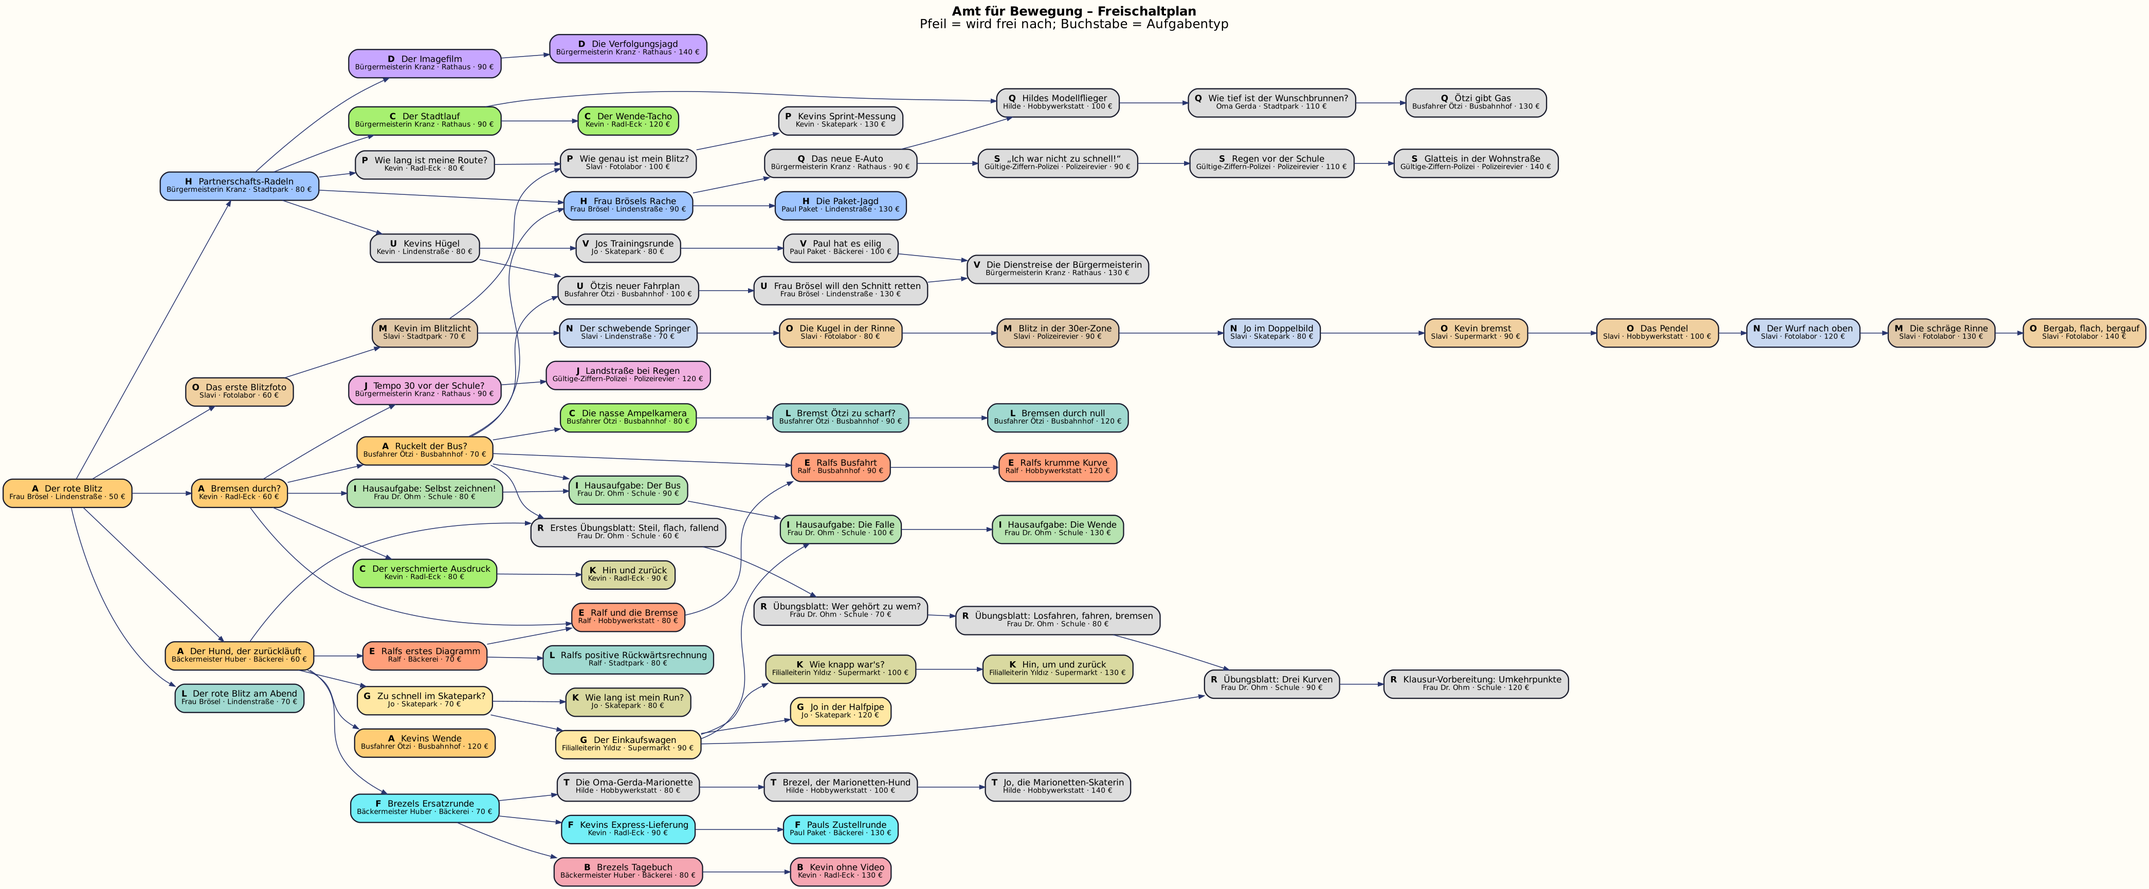
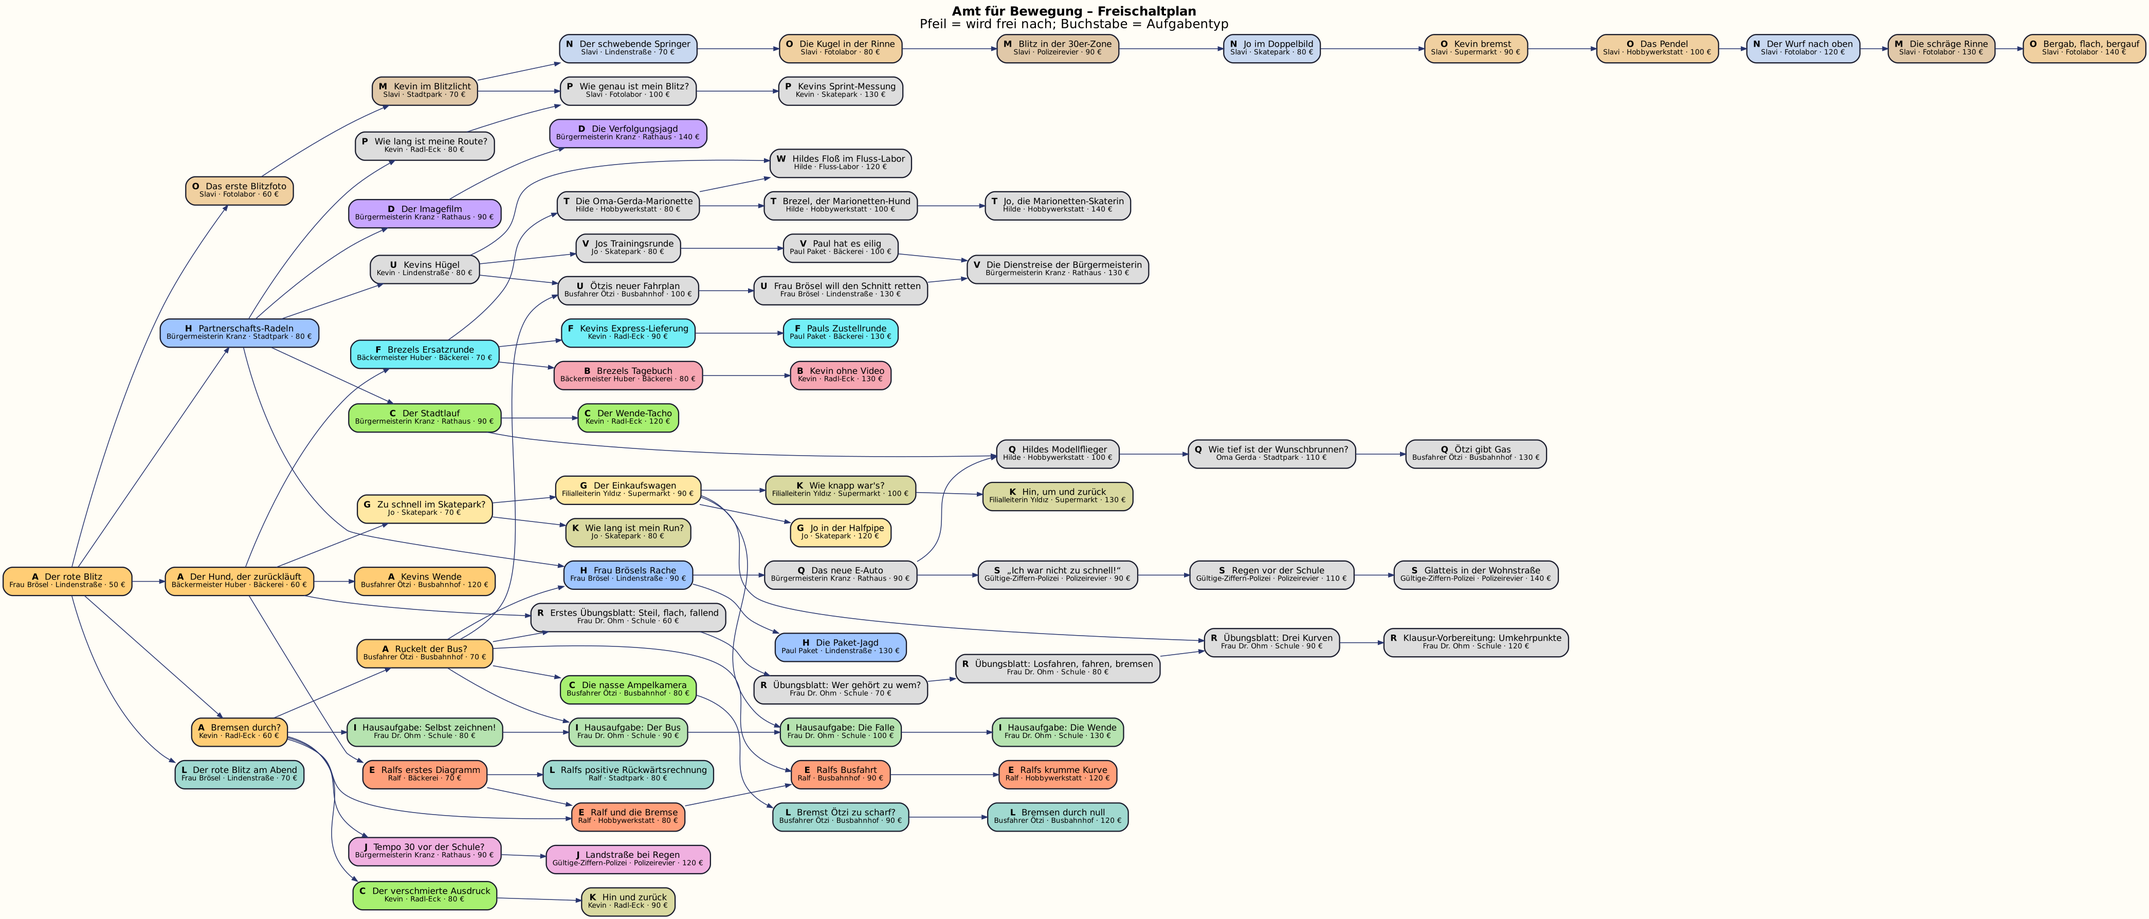
W34 Teil 3: Neuer Aufgabentyp W Fluss-Labor (Regler Strömung/Boot, Zeitraffer, t₁/t₂/t_ges, Seil bei zu schwachem Boot, Fahrtenbuch, Erkenntnis „gleicht sich nicht aus“, Quiz mit Rechnen, Verständnis, t-x und t-vₓ), Auftrag t78
Claude-Session: https://claude.ai/code/session_01YJm9GvWdMK6dmGfHSmaVkh

diff --git a/js/tasks/river.js b/js/tasks/river.js
@@ -1,0 +1,106 @@
+// Aufgabentyp W: Fluss-Labor [W34]. Simulation: Regler für Strömung (0–4 m/s) und Boot (0–10 m/s, gegenüber dem Wasser),
+// Fahrt flussauf zur Boje und zurück im Zeitraffer, t₁/t₂/t_ges live, Fahrtenbuch. Ist das Boot zu schwach,
+// treibt es ab und wird am Seil zurückgeholt. Nach ≥ 3 Fahrten (mit und ohne Strömung): Erkenntnis
+// „Die Strömung gleicht sich NICHT aus“, dann ein Quiz (js/tasks/river-quiz.js). Geld wie H (Bewertung im Quiz).
+//
+// Ticket-Feld "task": { "type":"river", "L":60, "prompt":"…", "paper":"…", "quiz":{ … siehe river-quiz.js } }
+
+import { tripPlan, boatAt } from '../engine/river.js';
+import { drawRiver } from '../render/river.js';
+import { frame } from './common.js';
+import { startQuiz } from './river-quiz.js';
+
+const f1 = (v) => v.toFixed(1).replace('.', ',');
+
+export function mount(root, { ticket, onSolved }) {
+  const task = ticket.task, L = task.L ?? 60;
+  const { left, right } = frame(root);
+  left.innerHTML = `<div class="scene-wrap rv-wrap"><canvas class="rv-cv"></canvas></div>
+    <div class="rv-ctrl">
+      <label>🌊 Strömung <b class="rv-vf">1,0 m/s</b><input type="range" class="rv-sf" min="0" max="4" step="0.5" value="1"></label>
+      <label>🚤 Boot <b class="rv-vb">4,0 m/s</b><input type="range" class="rv-sb" min="0" max="10" step="0.5" value="4"></label>
+      <button class="btn btn-check rv-go" type="button">▶ Losfahren</button>
+    </div>
+    <div class="paper-note"><strong>✎ Auf Papier</strong><span></span></div>`;
+  left.querySelector('.paper-note span').textContent = task.paper
+    ?? 'Rechne vorher: Flussauf ist das Boot mit v_Boot − v_Fluss unterwegs, flussab mit v_Boot + v_Fluss. t = Strecke / Geschwindigkeit. Stimmt deine Vorhersage?';
+  right.innerHTML = `<p class="prompt"></p>
+    <div class="rv-clock"><span>t₁ (flussauf) <b class="c1">–</b></span><span>t₂ (flussab) <b class="c2">–</b></span><span>t<sub>ges</sub> <b class="c3">–</b></span><span class="rv-speed"></span></div>
+    <div class="eb-protocol rv-log"><strong>Fahrtenbuch</strong><table><thead><tr><th>v<sub>Fluss</sub></th><th>v<sub>Boot</sub></th><th>t₁</th><th>t₂</th><th>t<sub>ges</sub></th><th>v̄</th></tr></thead><tbody></tbody></table></div>
+    <div class="rv-insight hidden"></div>`;
+  right.querySelector('.prompt').textContent = task.prompt ?? `Fahr ${L} m flussauf zur Boje und zurück. Probiere verschiedene Strömungen aus – gleicht sich die Strömung aus?`;
+
+  const cv = left.querySelector('.rv-cv');
+  const sf = left.querySelector('.rv-sf'), sb = left.querySelector('.rv-sb'), go = left.querySelector('.rv-go');
+  const show = () => { left.querySelector('.rv-vf').textContent = `${f1(+sf.value)} m/s`; left.querySelector('.rv-vb').textContent = `${f1(+sb.value)} m/s`; };
+  sf.addEventListener('input', show); sb.addEventListener('input', show); show();
+
+  let run = null, raf = 0, last = performance.now(), anim = 0;
+  const runs = [];
+  function frameLoop(now) {
+    const dt = Math.min(0.05, (now - last) / 1000); last = now; anim += dt;
+    let x = 0, dir = 1, rope = false, moving = false;
+    const vf = run ? run.vf : +sf.value;
+    if (run) {
+      run.t += dt * run.k; moving = true;
+      const p = run.plan;
+      if (p.ok) {
+        x = boatAt(p, run.t, run.vb, run.vf); dir = run.t <= p.t1 ? 1 : -1;
+        clock(Math.min(run.t, p.t1), run.t > p.t1 ? Math.min(run.t - p.t1, p.t2) : null, Math.min(run.t, p.T));
+        if (run.t >= p.T) end();
+      } else {
+        // treibt ab, nach 4 s (Simulation) holt das Seil das Boot zurück
+        const tDrift = 4;
+        if (run.t < tDrift) { x = boatAt(p, run.t, run.vb, run.vf); dir = 1; clock(run.t, null, run.t); }
+        else { rope = true; run.pull ??= boatAt(p, tDrift, run.vb, run.vf); run.pull = Math.min(0, run.pull + dt * L * 0.08); x = run.pull; if (x >= 0) end(); }
+      }
+    }
+    const d = Math.min(window.devicePixelRatio || 1, 3), r = cv.getBoundingClientRect();
+    if (r.width && cv.width !== Math.round(r.width * d)) { cv.width = Math.round(r.width * d); cv.height = Math.round(r.height * d); }
+    if (r.width) drawRiver(cv, { L, x, vf, dir, rope, moving, t: anim, dpr: d });
+    raf = requestAnimationFrame(frameLoop);
+  }
+  raf = requestAnimationFrame(frameLoop);
+
+  const clock = (a, b, c) => {
+    right.querySelector('.c1').textContent = `${f1(a)} s`;
+    right.querySelector('.c2').textContent = b == null ? '–' : `${f1(b)} s`;
+    right.querySelector('.c3').textContent = `${f1(c)} s`;
+  };
+  go.addEventListener('click', () => {
+    if (run) return;
+    const vb = +sb.value, vf = +sf.value, plan = tripPlan(vb, vf, L);
+    const k = plan.ok ? Math.max(1, plan.T / 8) : 1; // ganze Fahrt in höchstens ~8 s
+    run = { vb, vf, plan, t: 0, k };
+    sf.disabled = sb.disabled = go.disabled = true;
+    right.querySelector('.rv-speed').textContent = k > 1.05 ? `⏩ Zeitraffer ×${Math.round(k)}` : '';
+  });
+  function end() {
+    const { vb, vf, plan } = run;
+    run = null; sf.disabled = sb.disabled = go.disabled = false;
+    const tb = right.querySelector('.rv-log tbody');
+    const row = document.createElement('tr');
+    if (plan.ok) {
+      row.innerHTML = `<td>${f1(vf)}</td><td>${f1(vb)}</td><td>${f1(plan.t1)} s</td><td>${f1(plan.t2)} s</td><td>${f1(plan.T)} s</td><td><b>${f1(plan.avg)} m/s</b></td>`;
+      if (vf > 0) row.classList.add('rv-less');
+    } else row.innerHTML = `<td>${f1(vf)}</td><td>${f1(vb)}</td><td colspan="4">🪢 zu schwach – Seil!</td>`;
+    tb.prepend(row);
+    runs.push({ vb, vf, ok: plan.ok });
+    insight();
+  }
+  function insight() {
+    const ok = runs.filter((r) => r.ok);
+    const box = right.querySelector('.rv-insight');
+    if (runs.length < 3 || !ok.some((r) => r.vf === 0) || !ok.some((r) => r.vf > 0)) {
+      box.classList.remove('hidden');
+      box.textContent = `Noch ${Math.max(0, 3 - runs.length)} Fahrt(en)${ok.some((r) => r.vf === 0) ? '' : ', eine davon ohne Strömung'}${ok.some((r) => r.vf > 0) ? '' : ', eine mit Strömung'}. Vergleiche v̄ mit v_Boot!`;
+      return;
+    }
+    box.classList.remove('hidden'); box.classList.add('ok');
+    box.innerHTML = `<b>Erkenntnis:</b> Ohne Strömung ist v̄ = v<sub>Boot</sub>. Mit Strömung ist v̄ <b>immer kleiner</b> – sie gleicht sich NICHT aus! Flussauf ist das Boot langsamer und deshalb <b>länger</b> unterwegs. Diese lange, langsame Phase zählt mehr als die kurze, schnelle zurück.
+      <button class="btn btn-check rv-quiz" type="button">Zum Quiz ▶</button>`;
+    box.querySelector('.rv-quiz').addEventListener('click', () => { if (run) return; sf.disabled = sb.disabled = go.disabled = true; startQuiz(right, task.quiz ?? {}, onSolved, ticket.id); });
+  }
+  insight();
+  return { destroy: () => cancelAnimationFrame(raf) };
+}

diff --git a/js/tasks/river-quiz.js b/js/tasks/river-quiz.js
@@ -1,0 +1,83 @@
+// Quiz nach dem Fluss-Labor [W34]: 1× Rechnen, 1× Verständnis, 2× Diagramm (t-x und t-vₓ auswählen).
+// Bausteine der bekannten Typen: Rechenblock wie H (questions.js), Auswahl wie G, Diagramme wie A.
+// Bewertung: alles beim ersten Versuch → perfect; sonst partial; „Lösung zeigen“ beim Rechnen → fail.
+//
+// quiz (optional im Ticket): { "vb":6, "vf":2, "L":80 }  – Zahlen für Rechnung und Diagramme
+
+import { tripPlan } from '../engine/river.js';
+import { buildWorld, series } from '../engine/kinematics.js';
+import { drawGraph, KINDS } from '../render/graph.js';
+import { questionBlock } from './questions.js';
+import { addSignButtons } from '../ui/signbtn.js';
+import { shuffle } from './match.js';
+
+const f1 = (v) => v.toFixed(1).replace('.', ',');
+
+export function startQuiz(box, cfg, onSolved, seed) {
+  const vb = cfg.vb ?? 6, vf = cfg.vf ?? 2, L = cfg.L ?? 80, p = tripPlan(vb, vf, L);
+  let errors = 0, step = 0;
+  box.innerHTML = '<p class="prompt rv-qhead"></p><div class="rv-q"></div>';
+  const head = box.querySelector('.rv-qhead'), q = box.querySelector('.rv-q');
+  const next = () => { step++; [calc, why, xt, vt, done][step - 1](); };
+
+  function calc() {
+    head.textContent = `Quiz 1/4 – Rechnen: Boot ${f1(vb)} m/s, Strömung ${f1(vf)} m/s, ${L} m flussauf und zurück.`;
+    q.innerHTML = '';
+    questionBlock(q, [{ label: 'Durchschnittsgeschwindigkeit', symbol: 'v̄', unit: 'm/s', truth: p.avg,
+      hints: [{ value: vb, text: 'Das wäre ohne Strömung richtig. Rechne t₁ und t₂ getrennt aus!' }],
+      help: `t₁ = ${L} m / ${f1(vb - vf)} m/s, t₂ = ${L} m / ${f1(vb + vf)} m/s, v̄ = ${2 * L} m / (t₁ + t₂)` }], {
+      rule: false,
+      onSolved: ({ grade }) => { if (grade === 'fail') return onSolved({ attempts: errors + 3, grade: 'fail' }); if (grade !== 'perfect') errors++; next(); },
+    });
+    addSignButtons(q);
+  }
+  function choice(title, opts, render) {
+    head.textContent = title;
+    q.innerHTML = '<div class="rv-choices"></div><div class="feedback"></div>';
+    const list = q.querySelector('.rv-choices'), fb = q.querySelector('.feedback');
+    let wrongHere = 0;
+    shuffle(opts.map((o, i) => ({ ...o, i })), `${seed}${step}`).forEach((o) => {
+      const b = document.createElement('button');
+      b.type = 'button'; b.className = 'rv-choice';
+      list.appendChild(b);
+      render(b, o);
+      b.addEventListener('click', () => {
+        if (b.disabled) return;
+        if (!o.correct) { wrongHere++; b.disabled = true; b.classList.add('wrong'); fb.className = 'feedback bad'; fb.textContent = o.feedback ?? 'Nicht ganz.'; return; }
+        if (wrongHere) errors++;
+        b.classList.add('right'); list.querySelectorAll('.rv-choice').forEach((x) => (x.disabled = true));
+        fb.className = 'feedback ok'; fb.textContent = o.explain ?? 'Richtig!';
+        setTimeout(next, 1300);
+      });
+    });
+  }
+  function why() {
+    choice('Quiz 2/4 – Verständnis: Warum gleicht sich die Strömung nicht aus?', [
+      { text: 'Flussauf ist das Boot langsamer und deshalb länger unterwegs. Die lange langsame Phase zählt mehr als die kurze schnelle.', correct: true, explain: 'Genau: Der Schnitt ist zeitgewichtet – und flussauf vergeht viel mehr Zeit.' },
+      { text: 'Sie gleicht sich doch aus: Man verliert flussauf genauso viel, wie man flussab gewinnt.', feedback: 'Das ist die typische Fehlvorstellung. Schau ins Fahrtenbuch: v̄ ist kleiner als v_Boot!' },
+      { text: 'Weil die Strömung flussauf stärker ist als flussab.', feedback: 'Die Strömung ist überall gleich stark. Es liegt an der Zeit, nicht an der Strömung.' },
+      { text: 'Weil das Boot flussab langsamer ist als flussauf.', feedback: 'Umgekehrt: Flussab ist es schneller (v_Boot + v_Fluss).' },
+    ], (b, o) => (b.textContent = o.text));
+  }
+  // Diagramm-Fahrten: richtig, symmetrisch (Fehlvorstellung), vertauscht
+  const trips = [
+    { correct: true, seg: [{ dt: p.t1, v: vb - vf }, { dt: p.t2, v: -(vb + vf) }], explain: 'Richtig: flussauf flach und lang, flussab steil und kurz.' },
+    { seg: [{ dt: p.T / 2, v: (2 * L) / p.T }, { dt: p.T / 2, v: -(2 * L) / p.T }], feedback: 'Symmetrisch wäre es nur ohne Strömung. Flussauf dauert es länger!' },
+    { seg: [{ dt: p.t2, v: vb + vf }, { dt: p.t1, v: -(vb - vf) }], feedback: 'Vertauscht: Flussauf (hin) ist das Boot langsamer, nicht schneller.' },
+  ];
+  const graphBtn = (kind) => (b, o) => {
+    const a = buildWorld({ actors: [{ id: 'a', x0: 0, segments: o.seg }] }).actors.get('a');
+    const tMax = Math.max(...trips.map((tr) => tr.seg[0].dt + tr.seg[1].dt));
+    const yR = kind === 'xt' ? [0, L] : [-(vb + vf), vb + vf];
+    const W = Math.max(200, Math.round(b.clientWidth - 20)), H = 84; // Einheiten = Pixel: Beschriftung bleibt lesbar
+    b.appendChild(drawGraph(kind, series(a, KINDS[kind].q), { tMax, yRange: yR, width: W, height: H, compact: true, yCount: 2 }).el);
+  };
+  const xt = () => choice('Quiz 3/4 – Welches t-x-Diagramm passt zur Fahrt (hin flussauf, zurück flussab)?', trips, graphBtn('xt'));
+  const vt = () => choice('Quiz 4/4 – Welches t-vₓ-Diagramm passt? (x-Achse zeigt flussauf)', trips, graphBtn('vt'));
+  function done() {
+    head.textContent = errors ? 'Quiz geschafft!' : 'Quiz fehlerfrei geschafft!';
+    q.innerHTML = `<div class="feedback ok">Merke: Strömung (oder Gegenwind) macht eine Hin-und-zurück-Fahrt immer langsamer. Bei ${f1(vb)} m/s und ${f1(vf)} m/s Strömung: v̄ = ${f1(p.avg)} m/s statt ${f1(vb)} m/s.</div>`;
+    setTimeout(() => onSolved({ attempts: errors + 1, grade: errors ? 'partial' : 'perfect' }), 1600);
+  }
+  next();
+}

diff --git a/js/render/river.js b/js/render/river.js
@@ -1,0 +1,51 @@
+// Fluss-Labor von oben [W34]: Fluss fließt von rechts nach links. Steg links (x = 0), Boje rechts (x = L).
+// Strömungsstriche treiben mit vf, das Floß zeigt seine Fahrtrichtung, optional das Rettungsseil.
+
+const INK = '#1a1c2c';
+
+/** o: { L, x (m), vf, dir: 1|-1, rope: bool, t (s, Animationszeit), dpr } → geo { toPx } */
+export function drawRiver(c, o) {
+  const ctx = c.getContext('2d'), W = c.width, H = c.height, d = o.dpr ?? 1;
+  const top = H * 0.18, bot = H * 0.86, x0 = W * 0.16, x1 = W * 0.86;
+  const toPx = (x) => x0 + (x / o.L) * (x1 - x0);
+  // Ufer
+  ctx.fillStyle = '#6abe30'; ctx.fillRect(0, 0, W, H);
+  ctx.fillStyle = '#d9c48f'; ctx.fillRect(0, top - 5 * d, W, 5 * d); ctx.fillRect(0, bot, W, 5 * d);
+  for (let i = 0; i < 12; i++) { ctx.fillStyle = i % 2 ? '#3d9b3d' : '#26753a'; const tx = ((i * 0.137) % 1) * W; ctx.beginPath(); ctx.arc(tx, top - 13 * d - (i % 3) * 3 * d, 7 * d, 0, 7); ctx.fill(); }
+  // Wasser
+  ctx.fillStyle = '#4fa4d8'; ctx.fillRect(0, top, W, bot - top);
+  ctx.fillStyle = '#3a7fb5'; ctx.fillRect(0, top + (bot - top) * 0.35, W, (bot - top) * 0.3);
+  // Strömung: helle Striche treiben nach links, je schneller desto weiter
+  const pxPerM = (x1 - x0) / o.L;
+  for (let i = 0; i < 26; i++) {
+    const yy = top + 6 * d + ((i * 37) % 100) / 100 * (bot - top - 12 * d);
+    const base = ((i * 0.173) % 1) * W, shift = (o.t * o.vf * pxPerM) % W;
+    const xx = ((base - shift) % W + W) % W;
+    ctx.fillStyle = 'rgba(200,236,255,0.7)'; ctx.fillRect(xx, yy, (6 + o.vf * 3) * d, 1.5 * d);
+  }
+  // Steg und Boje
+  ctx.fillStyle = '#a0622d'; ctx.fillRect(toPx(0) - 26 * d, (top + bot) / 2 - 6 * d, 22 * d, 12 * d);
+  ctx.fillStyle = '#73441d'; for (let k = 0; k < 4; k++) ctx.fillRect(toPx(0) - 26 * d + k * 6 * d, (top + bot) / 2 - 6 * d, 1.5 * d, 12 * d);
+  ctx.fillStyle = INK; ctx.fillRect(toPx(0) - 6 * d, (top + bot) / 2 - 9 * d, 3 * d, 18 * d); // Pfosten
+  const by = (top + bot) / 2 + Math.sin(o.t * 2) * 1.5 * d;
+  ctx.fillStyle = INK; ctx.beginPath(); ctx.arc(toPx(o.L), by, 7 * d, 0, 7); ctx.fill();
+  ctx.fillStyle = '#e43b44'; ctx.beginPath(); ctx.arc(toPx(o.L), by, 5.5 * d, 0, 7); ctx.fill();
+  ctx.fillStyle = '#f4f4f4'; ctx.fillRect(toPx(o.L) - 5.5 * d, by - 1.5 * d, 11 * d, 3 * d);
+  // Maßstab am unteren Ufer
+  ctx.fillStyle = INK; ctx.font = `${10 * d}px "AmtPixel", monospace`; ctx.textAlign = 'center';
+  ctx.fillText('Steg', toPx(0) - 15 * d, bot + 16 * d); ctx.fillText(`Boje · ${o.L} m`, toPx(o.L), bot + 16 * d);
+  // Strömungspfeil
+  ctx.fillStyle = 'rgba(26,28,44,0.65)'; ctx.fillRect(W - 92 * d, top + 4 * d, 86 * d, 15 * d);
+  ctx.fillStyle = '#f4f4f4'; ctx.textAlign = 'left'; ctx.fillText(`◀ Strömung ${o.vf.toFixed(1).replace('.', ',')} m/s`, W - 89 * d, top + 15 * d);
+  // Seil
+  const bx = toPx(o.x), byy = (top + bot) / 2;
+  if (o.rope) { ctx.strokeStyle = '#ffcd75'; ctx.lineWidth = 2 * d; ctx.beginPath(); ctx.moveTo(toPx(0) - 4 * d, byy); ctx.quadraticCurveTo((toPx(0) + bx) / 2, byy + 10 * d, bx, byy); ctx.stroke(); }
+  // Floß mit Motor und Bugwelle
+  const dir = o.dir ?? 1, fw = 26 * d, fh = 14 * d;
+  if (o.moving) { ctx.fillStyle = 'rgba(255,255,255,0.6)'; ctx.fillRect(bx - dir * (fw / 2 + 10 * d), byy - fh / 2, 8 * d, 2 * d); ctx.fillRect(bx - dir * (fw / 2 + 10 * d), byy + fh / 2 - 2 * d, 8 * d, 2 * d); }
+  ctx.fillStyle = INK; ctx.fillRect(bx - fw / 2 - d, byy - fh / 2 - d, fw + 2 * d, fh + 2 * d);
+  for (let k = 0; k < 5; k++) { ctx.fillStyle = k % 2 ? '#c58b5e' : '#a0622d'; ctx.fillRect(bx - fw / 2 + k * (fw / 5), byy - fh / 2, fw / 5 - d, fh); }
+  ctx.fillStyle = '#e43b44'; ctx.fillRect(bx - dir * (fw / 2 + 4 * d) - 3 * d, byy - 4 * d, 6 * d, 8 * d); // Motor hinten
+  ctx.fillStyle = '#ffcd75'; ctx.fillRect(bx - 2 * d, byy - 3 * d, 5 * d, 6 * d); // Florian (von oben)
+  return { toPx };
+}

diff --git a/css/tasks-neu.css b/css/tasks-neu.css
@@ -256,3 +256,29 @@ body.finale-on #dialog { z-index: 80; }
 .avg-bar i { font-style: normal; color: #fff; font-size: 12px; display: grid; place-items: center; overflow: hidden; white-space: nowrap; transition: width .8s ease; text-shadow: 0 1px 0 rgba(0,0,0,.5); }
 .avg-impossible { background: #f8dde2; }
 @media (max-height: 500px) { .avg-cv { height: 70px; } .avg-bar > div { height: 20px; } .avg-bar { font-size: 12px; } }
+
+/* W Fluss-Labor [W34] */
+.rv-cv { display: block; width: 100%; aspect-ratio: 2.4 / 1; }
+.rv-ctrl { display: grid; grid-template-columns: 1fr 1fr auto; gap: 8px; align-items: end; }
+.rv-ctrl label { display: flex; flex-direction: column; font-size: 14px; background: var(--paper); box-shadow: 0 0 0 2px var(--ink); padding: 3px 8px; }
+.rv-ctrl input { width: 100%; accent-color: var(--accent); }
+.rv-clock { display: flex; flex-wrap: wrap; gap: 4px 14px; background: var(--ink); color: #f4f4f4; padding: 5px 10px; font-family: var(--pixel); font-size: 15px; }
+.rv-clock b { color: var(--gold); font-weight: 400; }
+.rv-log { overflow: auto; max-height: 40vh; }
+.rv-log table { border-collapse: collapse; font-size: 13px; width: 100%; }
+.rv-log th, .rv-log td { padding: 1px 5px; text-align: right; border-bottom: 1px dashed var(--grid-major); }
+.rv-log tr.rv-less td:last-child { color: var(--bad); }
+.rv-insight { background: #fde7b2; box-shadow: 0 0 0 2px var(--ink); padding: 6px 10px; font-size: 14px; }
+.rv-insight.ok { background: #e3f6e6; }
+.rv-insight .btn { display: block; margin-top: 6px; }
+.rv-choices { display: grid; grid-template-columns: 1fr; gap: 6px; }
+.rv-choice { text-align: left; font: 15px/1.3 var(--text); background: var(--paper); border: 0; box-shadow: 0 0 0 2px var(--ink); padding: 6px 10px; color: var(--ink); }
+.rv-choice svg { display: block; width: 100%; height: 84px; }
+.rv-choice:has(svg) { padding: 3px 8px; }
+.rv-choice.right { box-shadow: 0 0 0 4px var(--ok); background: #e3f6e6; }
+.rv-choice.wrong { box-shadow: 0 0 0 3px var(--bad); opacity: .6; }
+@media (max-height: 500px) {
+  .rv-ctrl label { font-size: 12px; padding: 2px 6px; }
+  .rv-clock { font-size: 13px; padding: 3px 8px; }
+  .rv-insight, .rv-choice { font-size: 12px; }
+}

diff --git a/js/engine/river.js b/js/engine/river.js
@@ -1,0 +1,18 @@
+// Fluss-Labor (Typ W) [W34]: Boot fährt die Strecke L flussaufwärts und zurück. Kein DOM.
+// vb = Geschwindigkeit des Bootes gegenüber dem Wasser, vf = Fließgeschwindigkeit (beide ≥ 0, in m/s).
+// Ort x: 0 = Steg, L = Boje flussaufwärts.
+
+/** Fahrplan einer Fahrt. ok = false, wenn das Boot gegen die Strömung nicht ankommt (vb ≤ vf). */
+export function tripPlan(vb, vf, L) {
+  if (vb <= vf + 1e-9) return { ok: false, vUp: vb - vf, L };
+  const t1 = L / (vb - vf), t2 = L / (vb + vf), T = t1 + t2;
+  return { ok: true, t1, t2, T, avg: (2 * L) / T, avgNoCurrent: vb, tNoCurrent: (2 * L) / vb, L };
+}
+
+/** Ort des Bootes zur Zeit t (nur für ok-Fahrten); danach bleibt es am Steg */
+export function boatAt(plan, t, vb, vf) {
+  if (!plan.ok) return Math.max(-plan.L * 0.35, plan.vUp * t); // treibt ab (höchstens bis zum Seil-Ende)
+  if (t <= plan.t1) return (vb - vf) * t;
+  if (t <= plan.T) return plan.L - (vb + vf) * (t - plan.t1);
+  return 0;
+}

diff --git a/docs/QUESTPLAN.md b/docs/QUESTPLAN.md
@@ -5,7 +5,7 @@
 > Buchstabe = Aufgabentyp (siehe Legende). PNG: `docs/questplan.png`.
 
 Startaufträge (sofort frei): Der rote Blitz.
-Anzahl Aufträge: 75, verdienbar: 7240 €.
+Anzahl Aufträge: 76, verdienbar: 7360 €.
 
 ```mermaid
 flowchart LR
@@ -84,6 +84,7 @@ flowchart LR
   t75_schnitt_training["<b>V</b> Jos Trainingsrunde<br/><small>Jo · Skatepark · 80 €</small>"]:::tV
   t76_schnitt_umgehung["<b>V</b> Paul hat es eilig<br/><small>Paul Paket · Bäckerei · 100 €</small>"]:::tV
   t77_schnitt_dienstreise["<b>V</b> Die Dienstreise der Bürgermeisterin<br/><small>Bürgermeisterin Kranz · Rathaus · 130 €</small>"]:::tV
+  t78_fluss_labor["<b>W</b> Hildes Floß im Fluss-Labor<br/><small>Hilde · Fluss-Labor · 120 €</small>"]:::tW
   t01_sportwagen --> t02_kevin
   t02_kevin --> t03_bus
   t01_sportwagen --> t04_brezel
@@ -169,6 +170,8 @@ flowchart LR
   t75_schnitt_training --> t76_schnitt_umgehung
   t76_schnitt_umgehung --> t77_schnitt_dienstreise
   t74_schnitt_unmoeglich --> t77_schnitt_dienstreise
+  t72_schnitt_huegel --> t78_fluss_labor
+  t65_puppe_gerda --> t78_fluss_labor
   classDef tA fill:#ffcd75,stroke:#1a1c2c,color:#1a1c2c
   classDef tB fill:#f6a6b2,stroke:#1a1c2c,color:#1a1c2c
   classDef tC fill:#a7f070,stroke:#1a1c2c,color:#1a1c2c
@@ -211,7 +214,7 @@ flowchart LR
 | T | Puppenspieler | 3 |
 | U | Schnitt nach Strecken | 3 |
 | V | Schnitt nach Zeiten | 3 |
-| W | Fluss-Labor | 0 |
+| W | Fluss-Labor | 1 |
 
 ## Liste
 | Auftrag | Typ | von | Ort | Lohn | braucht |
@@ -291,3 +294,4 @@ flowchart LR
 | Jos Trainingsrunde | V | Jo | Skatepark | 80 € | Kevins Hügel |
 | Paul hat es eilig | V | Paul Paket | Bäckerei | 100 € | Jos Trainingsrunde |
 | Die Dienstreise der Bürgermeisterin | V | Bürgermeisterin Kranz | Rathaus | 130 € | Paul hat es eilig, Frau Brösel will den Schnitt retten |
+| Hildes Floß im Fluss-Labor | W | Hilde | Fluss-Labor | 120 € | Kevins Hügel, Die Oma-Gerda-Marionette |
